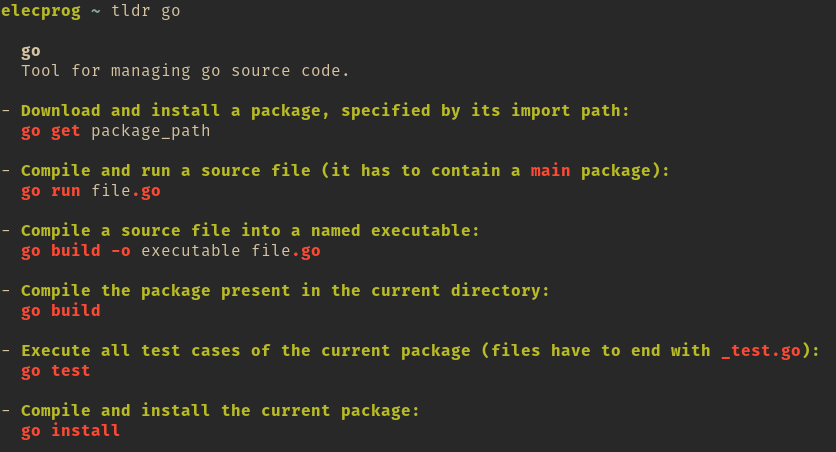
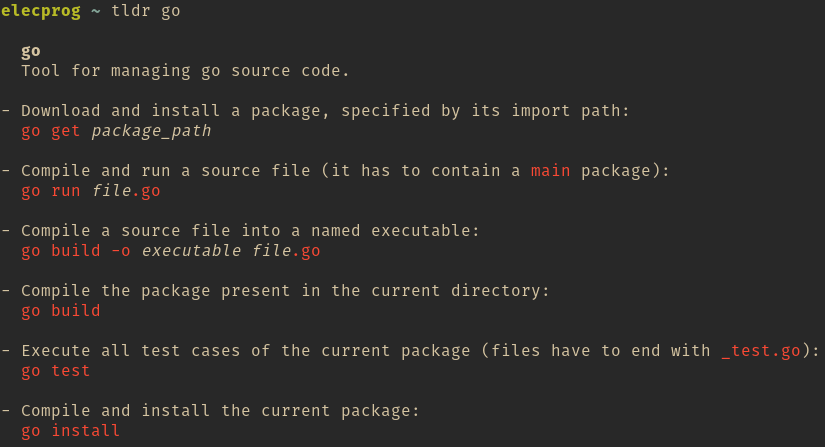
Redesigned output

diff --git a/pages/prettyprint.go b/pages/prettyprint.go
@@ -20,29 +20,27 @@ import (
 	"fmt"
 	"os"
 	"strings"
-
-	"github.com/logrusorgru/aurora"
 )
 
 const (
-	normal      = aurora.Color(0)
-	heading     = aurora.BoldFm
+	normal      = colDefault
+	heading     = normal | modBold
 	note        = normal
-	description = aurora.GreenFg | aurora.BoldFm
-	verbatim    = aurora.BoldFm | aurora.RedFg
-	example     = normal
+	description = normal
+	verbatim    = colBrightRed
+	example     = normal | modItalic
 )
 
 func emptyDatabase() {
 	// The database is empty
 	fmt.Fprint(os.Stderr, "\n  ", "The database is empty.")
-	fmt.Fprint(os.Stderr, "\n  ", "You can try updating the database using ", aurora.Colorize("tldr --update", verbatim), ".\n\n")
+	fmt.Fprint(os.Stderr, "\n  ", "You can try updating the database using ", colorize("tldr --update", verbatim), ".\n\n")
 }
 
 func pageUnavailable(command string) {
 	// The page is not in the database
-	fmt.Print("\n  ", aurora.Colorize(command, heading), " documentation is not available.")
-	fmt.Print("\n  ", "You can try updating the database using ", aurora.Colorize("tldr --update", verbatim), ".")
+	fmt.Print("\n  ", colorize(command, heading), " documentation is not available.")
+	fmt.Print("\n  ", "You can try updating the database using ", colorize("tldr --update", verbatim), ".")
 	fmt.Print("\n  ", "Or add a page yourself to https://github.com/tldr-pages/tldr.", "\n\n")
 }
 
@@ -82,7 +80,7 @@ func prettyPrint(page []byte) {
 	fmt.Println()
 }
 
-func processLine(line string, defaultStyle aurora.Color) {
+func processLine(line string, defaultStyle color) {
 	// Remove unneeded spaces
 	line = strings.TrimSpace(line)
 
@@ -103,7 +101,7 @@ func processLine(line string, defaultStyle aurora.Color) {
 
 		} else {
 			// Normal text
-			fmt.Print(aurora.Colorize(part, defaultStyle))
+			fmt.Print(colorize(part, defaultStyle))
 		}
 
 		inVerbatim = !inVerbatim
@@ -128,11 +126,11 @@ func processVerbatim(line string) {
 		for _, part := range strings.Split(segment, "}}") {
 			if inExample {
 				// Optional
-				fmt.Print(aurora.Colorize(part, example))
+				fmt.Print(colorize(part, example))
 
 			} else {
 				// Verbatim
-				fmt.Print(aurora.Colorize(part, verbatim))
+				fmt.Print(colorize(part, verbatim))
 			}
 
 			inExample = !inExample

diff --git a/pages/color.go b/pages/color.go
@@ -1,0 +1,89 @@
+// Copyright © 2018 Evert Provoost
+//
+// This program is free software: you can redistribute it and/or modify
+// it under the terms of the GNU General Public License as published by
+// the Free Software Foundation, either version 3 of the License, or
+// (at your option) any later version.
+//
+// This program is distributed in the hope that it will be useful,
+// but WITHOUT ANY WARRANTY; without even the implied warranty of
+// MERCHANTABILITY or FITNESS FOR A PARTICULAR PURPOSE.  See the
+// GNU General Public License for more details.
+//
+// You should have received a copy of the GNU General Public License
+// along with this program. If not, see <http://www.gnu.org/licenses/>.
+
+package pages
+
+import (
+	"fmt"
+	"strconv"
+)
+
+type color uint16
+
+const (
+	colBlack color = iota + 30
+	colRed
+	colGreen
+	colYellow
+	colBlue
+	colMagenta
+	colCyan
+	colGray
+
+	colBrightBlack color = (iota - 8) + 90
+	colBrightRed
+	colBrightGreen
+	colBrightYellow
+	colBrightBlue
+	colBrightMagenta
+	colBrightCyan
+	colBrightGray
+
+	colDefault color = 39
+	colReset   color = 0
+
+	modBold   color = 2 << 8
+	modFaint  color = 2 << 9
+	modItalic color = 2 << 10
+
+	colMask uint64 = 2<<8 - 1
+)
+
+type coloredText struct {
+	value interface{}
+	color color
+}
+
+func colorize(val interface{}, col color) coloredText {
+	return coloredText{value: val, color: col}
+}
+
+func toEscapeCode(col color) string {
+	res := "\033["
+
+	res += strconv.FormatUint(uint64(col)&colMask, 10)
+
+	if col&modBold > 0 {
+		res += ";1"
+	}
+
+	if col&modFaint > 0 {
+		res += ";2"
+	}
+
+	if col&modItalic > 0 {
+		res += ";3"
+	}
+
+	return res + "m"
+}
+
+func (ct coloredText) Format(f fmt.State, c rune) {
+	if ct.color == colDefault {
+		fmt.Fprint(f, ct.value)
+	} else {
+		fmt.Fprint(f, toEscapeCode(ct.color), ct.value, "\033[0m")
+	}
+}
